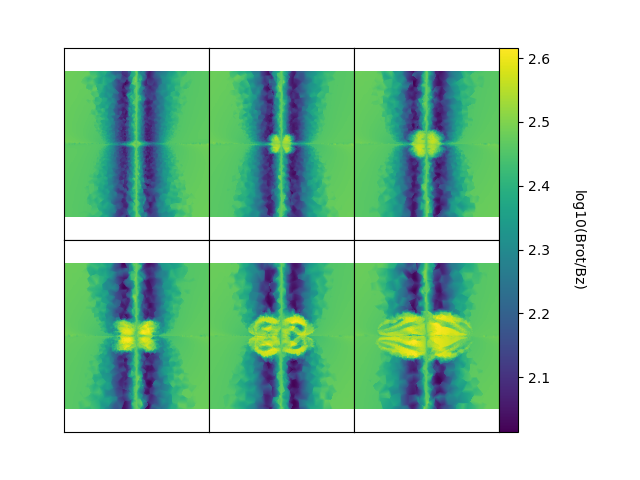
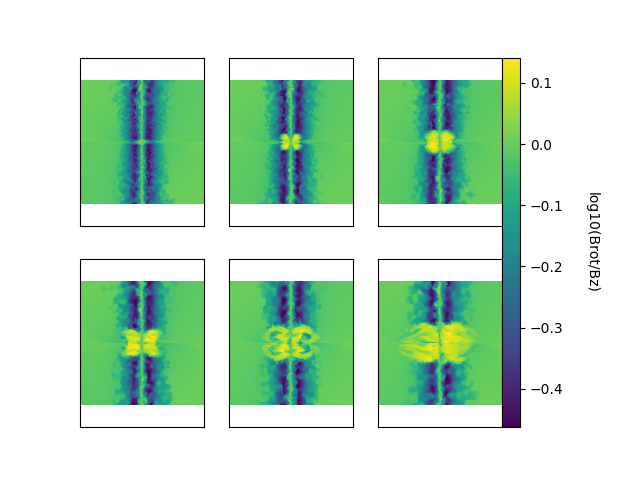
.

diff --git a/lewis_arepo_code/analyse.py b/lewis_arepo_code/analyse.py
@@ -341,22 +341,23 @@ def ratioB_plot(dirname,names,weight_type,pixels):
 	axs=axs.ravel()
 	for i in range (len(axs)):
 		if weight_type=='bratio':
-			bratio=np.absolute(ratioB_cube(dirname+names[5-i],0.12,pixels)[:,350:650,:])
-			bratio=np.sum(bratio,1)
+			bratio=np.absolute(ratioB_cube(dirname+names[5-i],0.12,pixels)[:,400:600,:])
+			bratio=np.sum(bratio,1)/200
 		if weight_type=='rho':
 			print(i)
 			bratio=np.fromfile(dirname+names[5-i],dtype=np.int32)[3:].reshape(pixels,pixels,pixels)
-			bratio=np.sum(bratio[:,480:520,:],1)
+			bratio=np.sum(bratio[:,400:600,:],1)/200
 		if i==0:
 			im=axs[5-i].imshow(np.log10(np.rot90(bratio)))
 			clim=im.properties()['clim']
+			axs[5-i].set_xlim(0,pixels)
+			axs[5-i].set_ylim(0,pixels)
 		else:	
 			axs[5-i].imshow(np.log10(np.rot90(bratio)),clim=clim)
+			axs[5-i].set_ylim(0,pixels)
+			axs[5-i].set_xlim(0,pixels)
+		axs[5-i].set_yticks([])	
 		axs[5-i].set_xticks([])
-		axs[5-i].set_yticks([])
-		axs[5-i].set_xlim(0,1000)
-		axs[5-i].set_ylim(0,1000)
-	fig.subplots_adjust(0.1,0.1,0.9,0.9,0,0)
 	cbar=fig.colorbar(im,ax=axs.tolist(), shrink=1,pad=0)
 	cbar.ax.set_ylabel('log10(Brot/Bz)', rotation=270,labelpad=25)
 	
@@ -365,14 +366,15 @@ def ratioB_plot(dirname,names,weight_type,pixels):
 
 def spacial_average(name,size_cu,pixels):
 	'''look down on xy plane and average the B_rot/B_pol ratio for each 2d R'''
-	A=np.fromfile(name,dtype=np.int32)
-	bratio=np.absolute(ratioB_cube(name,0.12,pixels)[:,:,400:600])
+	
+	bratio=np.absolute(ratioB_cube(name,0.12,pixels)[:,:,480:520])
 	bratio=np.sum(bratio,2).flatten()
+	bratio=bratio/40
 	x=np.linspace(-size_cu/2,size_cu/2,pixels)
 	y,x=np.meshgrid(x,x)
 	x=x.flatten()
 	y=y.flatten()
-	rs=np.sqrt(y**2+x**2)
+	rs=np.sqrt(y**2+x**2)*code_units.d_cu*1e-17
 	
 
 
@@ -382,8 +384,10 @@ def spacial_average(name,size_cu,pixels):
 	#rs=np.sqrt((a.x-midx)**2+(a.y-midy)**2)*code_units.d_cu*1e-17
 	#mask,junk=slice(a,boxsize,'rho',boxsize/4*1e-3)
 	#rs,bratio=rs,bratio#rs[mask],bratio[mask]
-	mask=np.where(rs<0.05)
-	d=avline(rs[mask],bratio[mask],20)
+	mask=np.where(rs<=0.05)
+	rs=rs[mask]
+	bratio=bratio[mask]
+	d=avline(rs,bratio,50)
 	return d[1][:-1],d[0]
 	
 def spacial_multiplot(dirname,snaps,im_size_cu,pixels):
